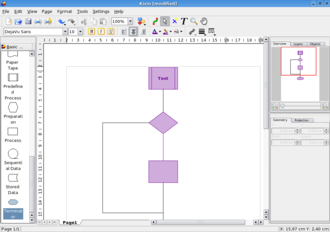
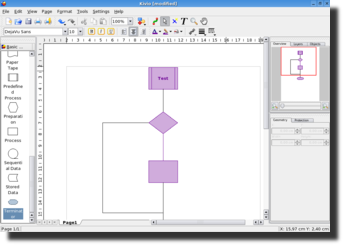
better looking preview
git-svn-id: svn+ssh://svn.kde.org/home/kde/trunk/www/areas/koffice@503011 283d02a7-25f6-0310-bc7c-ecb5cbfe19da

Changed region(s): [[0.0, 0.0, 1.0, 1.0], [0.8788, 0.6034, 0.9091, 0.6336]]

diff --git a/kivio/index.php b/kivio/index.php
@@ -20,7 +20,7 @@
     $gallery = new ImageGallery("Kivio-Screenshot");
     $gallery->addImage("pics/kivio_svn060127_330.png",
                        "pics/kivio_svn060127.png",
-                       330, 232,
+                       343, 245,
                        "[Screenshot]", "",
                        "Kivio");
     $gallery->show();
